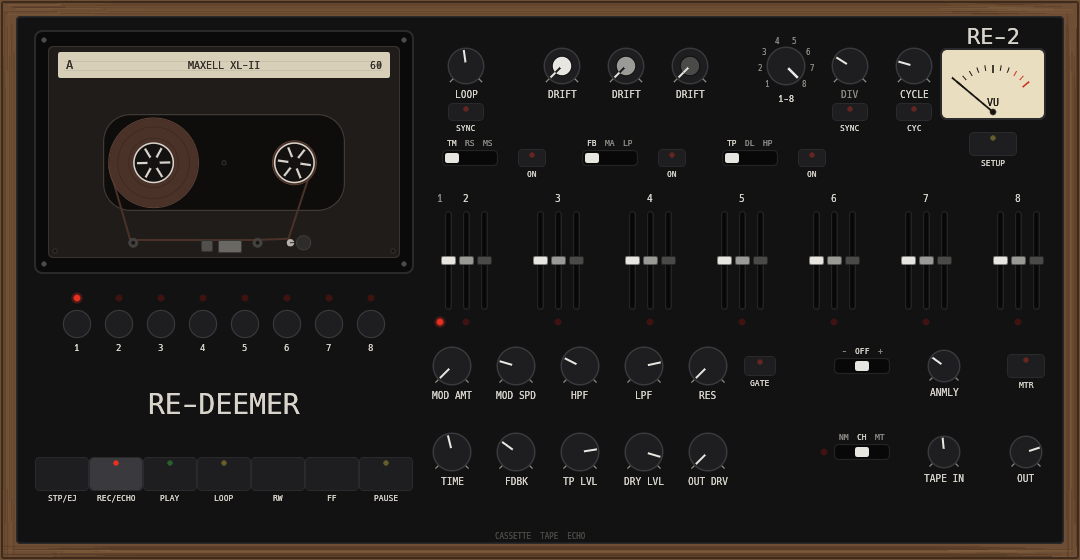
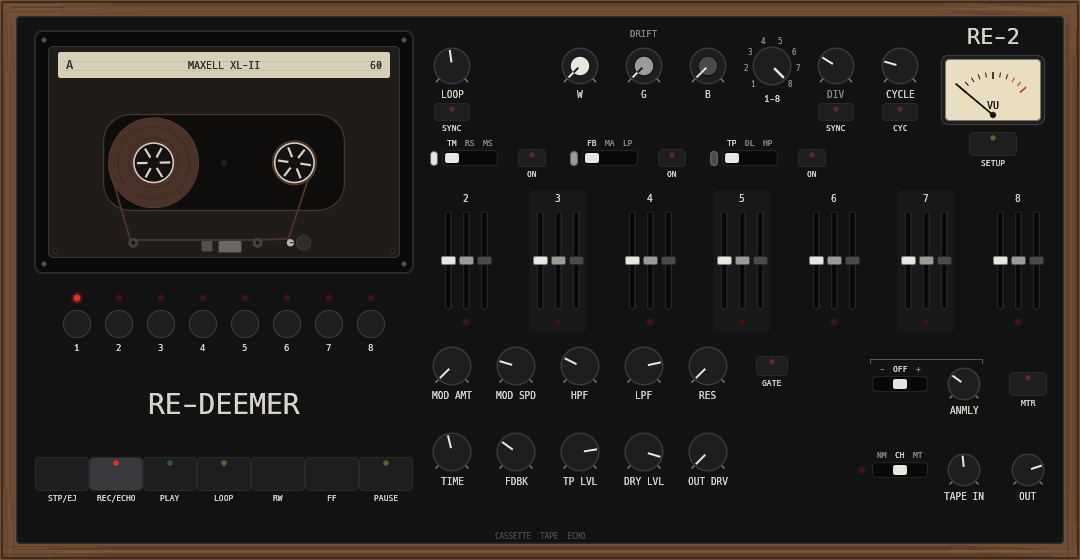
Release v1.1.0
- Version 1.0.4 -> 1.1.0 (Cargo.toml [workspace.package] and the AU component
  version in wrapper-au/CMakeLists.txt, which the AU build derives separately).
- CHANGELOG: presets + interface refresh.
- Website: regenerated the faceplate / overlay screenshots for the v1.1 UI and
  added a presets note; README / ROADMAP / release runbook updated (preset
  browser shipped in v1.1; release runbook now flags the AU version bump).

diff --git a/docs/index.html b/docs/index.html
@@ -169,6 +169,7 @@
       <li><b>Fourteen real cassettes</b> in the drawer — Maxell XL-II to no-name ferric — setting hiss, headroom and how fast the tape wears.</li>
       <li><b>Tape aging:</b> the longer the transport rolls, the more the oxide sheds — wow, dropouts and hiss creep up while the top end fades. Wear is saved with your project. Freeze it, or eject for a fresh tape.</li>
       <li><b>A mis-settable deck:</b> the NM/CH/MT switch is the deck, the cassette is the cassette. Chrome tape on a normal setting sounds exactly as wrong as it should.</li>
+      <li><b>Presets:</b> name and save a sound, load it back, delete it — straight from the SETUP panel. Loading recalls the controls without ejecting your tape or resetting its wear.</li>
     </ul>
   </div>
 </section>

diff --git a/CHANGELOG.md b/CHANGELOG.md
@@ -1,5 +1,20 @@
 # Changelog
 
+## 1.1.0 — 2026-06-25
+
+- **Presets.** SETUP has a new PRESETS tab — name and save the current sound,
+  load it back, or delete it. A preset captures the *sound* (knobs, faders,
+  sets, filters, mod, anomaly, tape type and stock, transport mode), not tape
+  wear, master output, or the live transport, so loading one re-dials the panel
+  without ejecting the tape or resetting wear. Presets are saved as files in
+  your user config folder.
+- **Interface refresh.** The three set-glide knobs are now labelled W / G / B
+  under one DRIFT header and the set switches wear their colour; every knob and
+  switch sits on a tidier alignment grid; the VU gained a proper bezel; the
+  transport's RW/FF match their neighbours; the anomaly controls are bracketed;
+  and the SETUP panel's tape-stock / aging / machine controls are grouped into
+  framed sections. Switching SETUP tabs now fades smoothly instead of flashing.
+
 ## 1.0.4 — 2026-06-12
 
 - **Now on Windows and Linux.** VST3 + CLAP for both, built and

diff --git a/README-RELEASING.md b/README-RELEASING.md
@@ -42,7 +42,10 @@ Everything from a clean checkout to a published, notarized release.
 ## Every release
 
 ```
-# 1. bump version in Cargo.toml ([workspace.package]) + add CHANGELOG entry
+# 1. bump version in Cargo.toml ([workspace.package]) AND in
+#    wrapper-au/CMakeLists.txt (project VERSION + BUNDLE_VERSION — these feed the
+#    AU component version, and package.sh aborts if they disagree with the crate
+#    version). Add a CHANGELOG entry.
 # 2. build, test, package:
 ./scripts/package.sh
 

diff --git a/README.md b/README.md
@@ -109,6 +109,8 @@ cargo run -p te2-plugin --release --features snapshot --bin te2-snapshot out.png
 - Windows and Linux builds come from CI (`.github/workflows/
   plugins-portable.yml`) and pass clap-validator there; they're younger
   than the macOS builds — reports welcome.
-- `PRESETS.md` has 16 factory panel recipes; `ROADMAP.md` is what's next.
+- Save your own presets in **SETUP → PRESETS** (stored in your user config
+  folder); `PRESETS.md` has 16 starter panel recipes; `ROADMAP.md` is what's
+  next.
 
 *A tribute. You waited long enough.*

diff --git a/ROADMAP.md b/ROADMAP.md
@@ -109,7 +109,7 @@ panel as a stopgap — they belong here).
 
 ---
 
-## 4. In-plugin preset browser — v1.1 (mechanism built)
+## 4. In-plugin preset browser — SHIPPED (v1.1.0)
 
 A preset is a *sound recipe*: it moves params through the host's normal
 per-parameter channel (not a full state restore), so loading one re-dials the